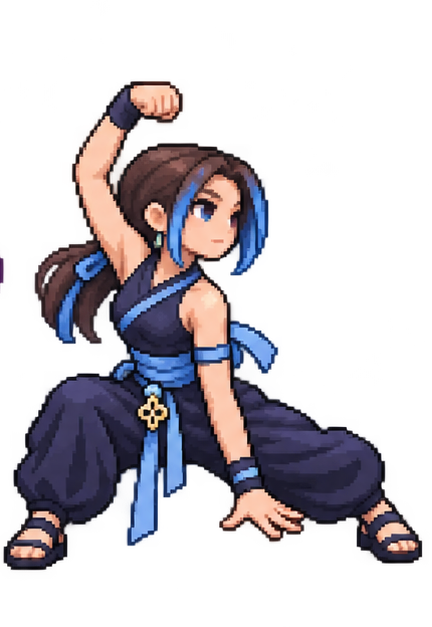
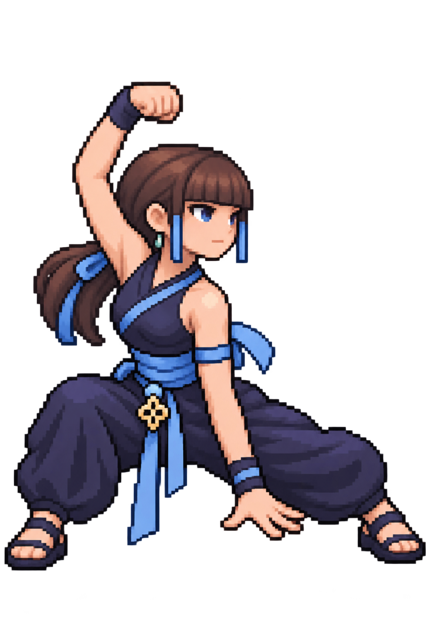
Match Liz and Wonyoung hairstyles and Gaeul's textbook cover

diff --git a/docs/art.js b/docs/art.js
@@ -39,6 +39,81 @@ function clarifyFaces(pixels) {
   for (const [i, delta] of changes) for (let c = 0; c < 3; c++) data[i + c] += delta;
  }
 }
+// Coordinates use the same atlas proof as faceCenters. Work on extracted frames so
+// changing the hair silhouette does not move a fighter's feet or attack anchor.
+function styleCombatHair(rows, scale) {
+ const rearEdges = [
+  [[89,5],[91,10],[86,15],[84,24],[85,33],[91,43],[90,49],[81,55],[74,67],[69,78],[70,88]],
+  [[273,4],[276,10],[271,15],[268,25],[270,37],[278,48],[276,54],[269,58],[260,70],[249,84],[251,91]],
+  [[448,10],[450,17],[445,22],[443,32],[447,45],[452,52],[448,58],[440,64],[427,76],[424,88]],
+  [[624,8],[629,15],[624,23],[623,34],[626,45],[631,54],[627,61],[620,70],[613,91],[618,102]],
+  [[832,65],[836,71],[832,78],[830,89],[832,101],[836,109],[830,115],[822,130],[814,155],[809,165]],
+  [[1026,5],[1029,11],[1024,18],[1021,28],[1025,39],[1030,48],[1024,53],[1017,63],[1016,76],[1019,89]],
+  [[1167,11],[1171,17],[1167,22],[1167,32],[1172,42],[1181,48],[1174,53],[1167,62],[1158,71],[1158,88]],
+  [[1340,4],[1344,11],[1339,18],[1337,30],[1342,41],[1347,48],[1340,54],[1334,62],[1328,79],[1324,91]]
+ ];
+ rows[0].forEach((frame, pose) => {
+  const c = frame.image.getContext('2d'), edge = rearEdges[pose];
+  c.save();
+  c.setTransform(scale, 0, 0, scale, 1-frame.x, 1-frame.y);
+  c.beginPath();
+  c.moveTo(edge[0][0]-115, edge[0][1]-18);
+  edge.forEach(([x,y]) => c.lineTo(x,y));
+  c.lineTo(edge[0][0]-115, edge.at(-1)[1]+18);
+  c.closePath(); c.save(); c.clip(); c.clearRect(0,0,1400,1050); c.restore();
+  const [x,y] = edge[5];
+  // Remove stray pink ends below the clipped tail and blend the former high tie into the crown.
+  const img=c.getImageData(0,0,frame.width,frame.height);
+  for(let j=0;j<img.data.length;j+=4){
+   const ax=((j/4)%frame.width+frame.x-1)/scale;
+   const ay=(Math.floor(j/4/frame.width)+frame.y-1)/scale;
+   const r=img.data[j],g=img.data[j+1],b=img.data[j+2];
+   if(ax<x-20 && ay>edge.at(-1)[1]-8 && ay<edge.at(-1)[1]+22 && r>g*1.25 && b>g*1.12)img.data[j+3]=0;
+   if(ay<edge[0][1]+12 && ax<x+12 && r>g*1.35 && b>g*1.18){
+    img.data[j]=62;img.data[j+1]=40;img.data[j+2]=47;
+   }
+   if(ay<edge[1][1] && ax<x+3 && ax<x+2+(edge[1][1]-ay)*1.3)img.data[j+3]=0;
+  }
+  c.putImageData(img,0,0);
+  c.globalCompositeOperation = 'destination-over';
+  const end = pose === 6 ? -6 : -20;
+  c.translate(x,y);
+  const lock = (points, color) => {
+   c.fillStyle=color; c.beginPath(); points.forEach(([a,b],i)=>i?c.lineTo(a,b):c.moveTo(a,b)); c.closePath(); c.fill();
+  };
+  lock([[3,0],[5,-2],[1,15],[end+5,48],[end+2,55],[end+2,45]],'#d36194');
+  lock([[-2,-3],[2,-4],[-2,14],[end+2,47],[end,54],[-6,18]],'#654350');
+  lock([[0,-9],[6,-4],[3,9],[end+6,49],[end,59],[end+1,48],[end-3,53],[-8,21],[-6,3]],'#39232d');
+  c.restore();
+ });
+ rows[4].forEach((frame, pose) => {
+  const c=frame.image.getContext('2d'), [x,y]=faceCenters[4][pose];
+  c.save(); c.setTransform(scale,0,0,scale,1-frame.x,1-frame.y);
+  c.translate(x,y);
+  if(pose===6)c.rotate(-.43);
+  c.globalCompositeOperation='source-atop';
+  const patch=c.getImageData(0,0,frame.width,frame.height);
+  for(let j=0;j<patch.data.length;j+=4){
+   const dx=((j/4)%frame.width+frame.x-1)/scale-x;
+   const dy=(Math.floor(j/4/frame.width)+frame.y-1)/scale-y;
+   if(dx < -15 || dx > 23 || dy < -26 || dy > 4)continue;
+   const r=patch.data[j],g=patch.data[j+1],b=patch.data[j+2];
+   if(b>r*1.2 && b>g*1.1 && !(dy>-4 && dx>-8 && dx<9)){
+    patch.data[j]=g*.8+18;patch.data[j+1]=g*.54+9;patch.data[j+2]=g*.5+8;
+   }
+  }
+  c.putImageData(patch,0,0);
+  // Dark roots transition into narrow blue streaks on the blunt cheek pieces.
+  for(const [left,top,length] of [[-14,-12,22],[11,-10,17]]) {
+   c.fillStyle='#513633'; c.fillRect(left,top,4,length);
+   c.fillStyle='#77514b'; c.fillRect(left+1,top+1,2,6);
+   c.fillStyle='#5595bf'; c.fillRect(left+1,top+8,2,length-8);
+   c.fillStyle='#9bdcff'; c.fillRect(left+2,top+10,1,length-11);
+  }
+  c.restore();
+ });
+}
+
 function extractSprites(image){
  const source=canvasOf(image.width,image.height),sc=source.getContext('2d',{willReadFrequently:true});sc.drawImage(image,0,0);
  const pixels=sc.getImageData(0,0,source.width,source.height),d=pixels.data,w=source.width,h=source.height,n=w*h;
@@ -57,6 +132,7 @@ function extractSprites(image){
  }
  const rows=Array.from({length:6},()=>[]);for(const g of groups){const row=Math.min(5,Math.floor((g.y+12)/(h/6)));rows[row].push(g);}for(const row of rows)row.sort((a,b)=>a.x-b.x);
  if(rows.some(row=>row.length!==8))throw new Error('Sprite atlas must contain six rows of eight poses: '+rows.map(r=>r.length).join(','));
+ styleCombatHair(rows,w/1400);
  return rows;
 }
 function loadPixelArt(){
@@ -120,8 +196,15 @@ function drawGear(c,f,height){
   }
  }else if(id==='proof'){
   c.translate(skill?22:12,skill?-182:-154);c.rotate(skill?-.16:.13);
-  c.fillStyle='#193737';c.fillRect(-20,-24,44,45);c.fillStyle='#ece6c5';c.fillRect(-17,-21,38,39);
-  c.fillStyle='#306651';c.fillRect(-15,-18,34,11);c.fillStyle='#253f38';c.font='11px Galmuri11, sans-serif';c.fillText('정석',-10,7);
+  c.save();c.scale(skill?f.direction:f.face,1);
+  c.fillStyle='#40353d';c.fillRect(-22,-27,44,55);
+  c.fillStyle='#d6cfd0';c.fillRect(-20,-25,41,52);
+  c.fillStyle='#fffcf6';c.fillRect(-20,-26,40,51);
+  c.fillStyle='#e9787b';c.fillRect(-17,-14,34,1);c.fillRect(-17,0,34,8);
+  c.textAlign='center';c.fillStyle='#241e23';c.font='bold 10px serif';c.fillText('수학의 정석',0,-3,35);
+  c.fillStyle='#fff';c.font='7px Galmuri11, sans-serif';c.fillText('수학(하)',0,7);
+  c.fillStyle='#514951';c.font='5px serif';c.fillText('홍성대 지음',0,16);
+  c.restore();
   if(skill){c.fillStyle='#adffe6';c.font='16px "Kemco Pixel", Galmuri11, monospace';c.fillText('Σ x²',28,-19);}
  }else if(id==='star'&&(skill||!f.move)){c.translate(skill?53:30,-178);drawStar(c,11);}
  else if(id==='slip'&&skill){for(let i=0;i<4;i++)inkLine(c,[[-72-i*12,-23-i*10],[-22,-28-i*10]],'#ffdb72',3);}

diff --git a/docs/index.html b/docs/index.html
@@ -12,4 +12,4 @@
 <label>CPU 난이도 <select id="difficulty"><option value="easy">쉬움</option><option value="normal" selected>보통</option><option value="hard">어려움</option></select></label>
 <button class="flow-cta" id="launch" disabled>대전 준비 중…</button></div></div></section>
 <div id="play" hidden><section class="game"><div class="arena-top"><span><i></i> TRAINING CENTER</span><span id="modeLabel">PLAYER VS CPU · 2선승</span><button id="sound" aria-label="효과음 켜기">SOUND OFF</button><button id="pause">일시정지 <kbd>ESC</kbd></button></div><div class="viewport"><canvas id="arena" width="600" height="300" aria-label="격투 게임 경기장"></canvas><div class="hud"><div class="fighter-hud"><div><b id="name1">KAI</b><small>PLAYER 01</small></div><div class="hp"><i id="hp1"></i></div><span id="wins1">○ ○</span><div class="meter"><i id="meter1"></i></div><small id="meterLabel1">SUPER 0%</small></div><div class="timer"><b id="timer">60</b><small id="round">ROUND 01</small></div><div class="fighter-hud right"><div><b id="name2">ROOK</b><small id="p2Label">CPU</small></div><div class="hp"><i id="hp2"></i></div><span id="wins2">○ ○</span><div class="meter"><i id="meter2"></i></div><small id="meterLabel2">SUPER 0%</small></div></div><div class="center" id="overlay"><div class="eyebrow" id="overlayKicker">READY WHEN YOU ARE</div><h2 id="overlayTitle">ENTER THE ARENA</h2><p id="overlayText">파이터 선택 후 대전을 시작하세요</p><button class="primary" id="start">대전 시작 <span>↗</span></button></div><div class="arena-bottom"><span>SEOUL / TRAINING CENTER</span><span id="status">FREE PLAY — NO SIGN UP</span><span>STAGE 01</span></div></div></section>
-<section class="controls"><div><h3>KNOW YOUR MOVES</h3><p>6버튼 전투 · 고유기 · 초필살기</p></div><div><b class="p1">MOVEMENT</b><p><kbd>A</kbd><kbd>D</kbd> 이동 (방향키 가능) <kbd>W</kbd> 점프 <kbd>S</kbd> 앉기</p><p>상대 반대 방향 유지: 가드 / 뒤 + S: 앉아 가드</p></div><div><b class="p2">ATTACK / 약 · 중 · 강</b><p>펀치 <kbd>U</kbd><kbd>I</kbd><kbd>O</kbd></p><p>킥 &nbsp;&nbsp; <kbd>J</kbd><kbd>K</kbd><kbd>L</kbd></p></div><div class="hint"><kbd>Q</kbd> 고유기 · <kbd>R</kbd> 슈퍼 (게이지 100%)<br>앉아 킥은 하단, 점프 공격은 중단입니다.<br><span>서 있는 가드와 앉아 가드를 상황에 맞게 사용하세요.</span></div></section><div class="touch"><button data-key="KeyA">←</button><button data-key="KeyD">→</button><button data-key="KeyW">점프</button><button data-key="KeyS">앉기</button><button data-key="KeyU">약P</button><button data-key="KeyI">중P</button><button data-key="KeyO">강P</button><button data-key="KeyJ">약K</button><button data-key="KeyK">중K</button><button data-key="KeyL">강K</button><button data-key="KeyQ">고유기</button><button data-key="KeyR">슈퍼</button></div><footer><span>一美必殺</span><span>사진 레퍼런스 기반 · PIXEL ARCADE · 팬 데모</span><button id="reset">선택 화면으로 ↗</button></footer></div></main><script src="assets/sprites-data.js"></script><script src="art.js?v=faces1"></script><script src="skills.js?v=4"></script><script src="select-stage.js"></script><script src="game.js?v=stage1"></script></body></html>
+<section class="controls"><div><h3>KNOW YOUR MOVES</h3><p>6버튼 전투 · 고유기 · 초필살기</p></div><div><b class="p1">MOVEMENT</b><p><kbd>A</kbd><kbd>D</kbd> 이동 (방향키 가능) <kbd>W</kbd> 점프 <kbd>S</kbd> 앉기</p><p>상대 반대 방향 유지: 가드 / 뒤 + S: 앉아 가드</p></div><div><b class="p2">ATTACK / 약 · 중 · 강</b><p>펀치 <kbd>U</kbd><kbd>I</kbd><kbd>O</kbd></p><p>킥 &nbsp;&nbsp; <kbd>J</kbd><kbd>K</kbd><kbd>L</kbd></p></div><div class="hint"><kbd>Q</kbd> 고유기 · <kbd>R</kbd> 슈퍼 (게이지 100%)<br>앉아 킥은 하단, 점프 공격은 중단입니다.<br><span>서 있는 가드와 앉아 가드를 상황에 맞게 사용하세요.</span></div></section><div class="touch"><button data-key="KeyA">←</button><button data-key="KeyD">→</button><button data-key="KeyW">점프</button><button data-key="KeyS">앉기</button><button data-key="KeyU">약P</button><button data-key="KeyI">중P</button><button data-key="KeyO">강P</button><button data-key="KeyJ">약K</button><button data-key="KeyK">중K</button><button data-key="KeyL">강K</button><button data-key="KeyQ">고유기</button><button data-key="KeyR">슈퍼</button></div><footer><span>一美必殺</span><span>사진 레퍼런스 기반 · PIXEL ARCADE · 팬 데모</span><button id="reset">선택 화면으로 ↗</button></footer></div></main><script src="assets/sprites-data.js"></script><script src="art.js?v=hair2"></script><script src="skills.js?v=4"></script><script src="select-stage.js"></script><script src="game.js?v=hair2"></script></body></html>

diff --git a/docs/game.js b/docs/game.js
@@ -1,11 +1,11 @@
 'use strict';
 const $=id=>document.getElementById(id);
 const roster=[
-{name:'장원영',roman:'WONYOUNG',style:'밸런스',color:'#ff75b5',skin:'#edc4b0',hair:'#302129',look:'pony',speed:3.8,power:1,reach:1,build:1,detail:'핑크 스트랩 · 롱 포니테일'},
+{name:'장원영',roman:'WONYOUNG',style:'밸런스',color:'#ff75b5',skin:'#edc4b0',hair:'#302129',look:'pony',speed:3.8,power:1,reach:1,build:1,detail:'핑크 브릿지 · 낮게 묶은 생머리'},
 {name:'레이',roman:'REI',style:'파워',color:'#f4d755',skin:'#edc7ad',hair:'#613c2e',look:'bob',speed:2.8,power:1.28,reach:1.08,build:.96,detail:'옐로 포인트 · 브라운 단발'},
 {name:'가을',roman:'GAEUL',style:'스피드',color:'#75ded4',skin:'#e6c3b2',hair:'#191d2b',look:'hood',speed:4.7,power:.84,reach:.94,build:.92,detail:'민트 브레이드 · 후드'},
 {name:'안유진',roman:'YUJIN',style:'아웃복서',color:'#ac88ff',skin:'#edc1aa',hair:'#1e192e',look:'long',speed:4.1,power:.92,reach:1.18,build:1.02,detail:'퍼플 스트릭 · 긴 생머리'},
-{name:'리즈',roman:'LIZ',style:'브루저',color:'#4ccaff',skin:'#f0cbb9',hair:'#55382f',look:'ribbon',speed:3.2,power:1.15,reach:1.02,build:1,detail:'블루 밴드 · 리본 포니테일'},
+{name:'리즈',roman:'LIZ',style:'브루저',color:'#4ccaff',skin:'#f0cbb9',hair:'#55382f',look:'ribbon',speed:3.2,power:1.15,reach:1.02,build:1,detail:'갈색 앞머리 · 하늘색 히메컷'},
 {name:'이서',roman:'LEESEO',style:'테크니션',color:'#ff654b',skin:'#eec3ad',hair:'#382329',look:'braids',speed:4.2,power:.95,reach:1.08,build:.96,detail:'레드 트윈 브레이드'}
 ];
 roster.forEach((fighter,i)=>Object.assign(fighter,kits[i]));
@@ -46,7 +46,7 @@ $('poster').onpointerup=e=>{if(!swipe||e.pointerId!==swipe[2])return;const dx=e.
 function renderCards(direction=0){
  const i=chosen[pick], fighter=roster[i], list=$('roster');
  if(i!==displayed){
-  const img=new Image();img.src='assets/pose-'+i+'.png?v=3';img.alt=fighter.name+'의 선택 포즈';img.draggable=false;img.dataset.id=i;
+  const img=new Image();img.src='assets/pose-'+i+'.png?v=4';img.alt=fighter.name+'의 선택 포즈';img.draggable=false;img.dataset.id=i;
   const dir=direction||Math.sign(i-displayed), old=$('slide').lastElementChild;
   const animate=old&&document.body.dataset.screen==='selection'&&!matchMedia('(prefers-reduced-motion:reduce)').matches;
   $('slide').replaceChildren(img);
